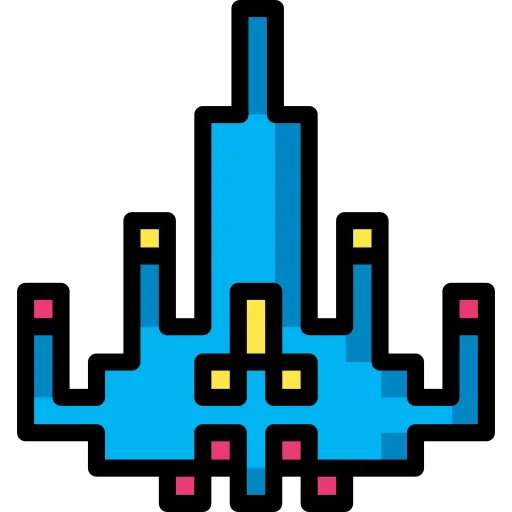
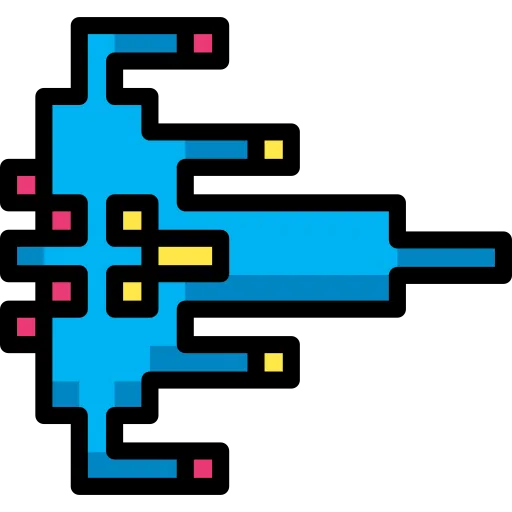
full movement

diff --git a/public/version 2/index.js b/public/version 2/index.js
@@ -1,5 +1,3 @@
-
-// TODO: fix player image rotation
 // made using HTML Canvas API
 // creates canvas
 const canvas = document.querySelector('canvas')
@@ -18,40 +16,28 @@ class Player {
 		this.rotation = 0
 	}
 	draw(){
+		// player image variables
+		const playerHeight = 100;
+		const playerWidth = 100;
+
+		// loading image
+		const playerImg = new Image()
+		playerImg.src = "./char.png"
 		// 'save' basically creates a savestate
 		// 'rotate' will try to rotate the entire canvas, so to rotate the player you need to change canvas' location to be on the player's center.
 		// this can be done by using 'translate', while referencing the player's x & y positions on the canvas.
 		// using 'save' & 'restore', the rotation code will only be called for whatever's within those two.
-		context.save()
-		context.translate(this.position.x, this.position.y)
-		context.rotate(this.rotation)
-		// reverts canvas back to original position
-		context.translate(-this.position.x, - this.position.y)
-		// player image variables
-		const playerHeight = 100;
-		const playerWidth = 100;
-		// loading image
-		const playerImg = new Image()
-		playerImg.src = "./char.png"
-		playerImg.onload = () => {
-			context.drawImage(
-				// Image to be drawn
-				playerImg,
-				// Drawing coordinates
-				this.position.x,
-				this.position.y,
-				// player image size
-				playerHeight,
-				playerWidth)
-		}
-		context.restore()
+		context.save();
+		context.translate(this.position.x + playerWidth / 2, this.position.y + playerHeight / 2);
+		context.rotate(this.rotation);
+		context.drawImage(playerImg, -playerWidth / 2, -playerHeight / 2, playerWidth, playerHeight);
+		context.restore();
 	}
 	// calls draw, updates position based on velocity
 	update() {
 		this.draw()
 		this.position.x += this.velocity.x
 		this.position.y += this.velocity.y
-		
 	}
 }
 // player
@@ -59,6 +45,7 @@ const player = new Player({
 	position: {x: canvas.width / 2 - 50, y: canvas.height / 2 - 50},
 	velocity: {x: 0, y: 0},
 })
+
 // functions
 // constant variable keeps track of which keys are pressed
 const keys = {
@@ -76,19 +63,22 @@ const keys = {
 // calls update, creates animation loop
 function animation() {
 	window.requestAnimationFrame(animation)
-	
-	console.log(animation);
 	player.update()
-	// determines speed when key is pressed
-	player.velocity.x = 0;
-	if (keys.w.pressed) player.velocity.x = 1.64
 	
+	player.velocity.x = 0;
+	player.velocity.y = 0;
+	
+	// determines speed when key is pressed
+	if (keys.w.pressed) {
+		player.velocity.x = Math.cos(player.rotation)
+		player.velocity.y = Math.sin(player.rotation)
+	}
+	//rotates right
 	if (keys.d.pressed) player.rotation += 0.01
+	// rotates left
+		else if (keys.a.pressed) player.rotation -= 0.01
 }
-player.draw()
-console.log(player)
-console.log(player.rotation)
-animation()
+animation();
 
 window.addEventListener('keydown', (event) => {
 	// switch = cleaner if/else, uses cases. better readability.
